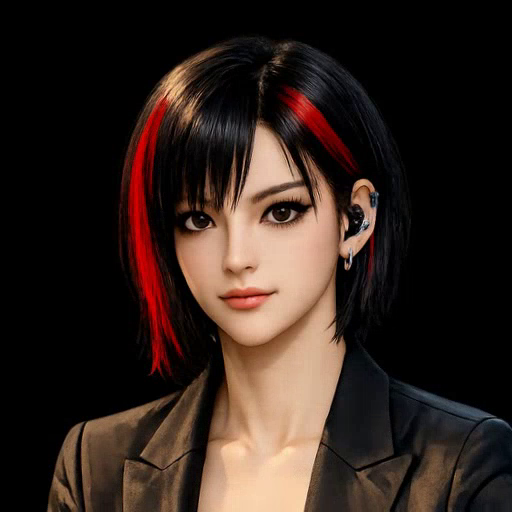
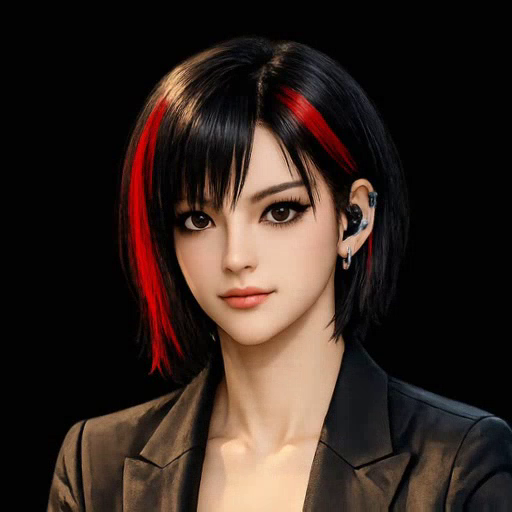
fix(oracle): mute video during Kokoro audio for no double output, fix static/video alignment
- canplay no longer calls tryUnmute — video plays muted as lip-sync overlay
- audio.onended unmutes video if it's still playing
- Poll: when video arrives mid-audio, starts playVid muted immediately
- Static PNG re-extracted from oracle_idle.mp4 frame 30 (512x512)
- CSS: object-position:center top on both #vid and #vid-static for pixel match

diff --git a/templates/oracle_live.html b/templates/oracle_live.html
@@ -300,7 +300,7 @@ html,body{height:100%;width:100%;background:#000;overflow:hidden;font-family:'In
 .video-wrap::before{top:6px;left:6px;border-width:1px 0 0 1px}
 .video-wrap::after{bottom:6px;right:6px;border-width:0 1px 1px 0}
 
-#vid{width:100%;height:100%;object-fit:cover;display:block}
+#vid{width:100%;height:100%;object-fit:cover;object-position:center top;display:block}
 .vid-ph{
   position:absolute;inset:0;
   display:flex;align-items:center;justify-content:center;
@@ -598,7 +598,7 @@ html,body{height:100%;width:100%;background:#000;overflow:hidden;font-family:'In
 
   <div class="video-wrap" style="position:relative;z-index:1;">
     <div class="vid-ph" id="vid-ph"><div class="vid-orb">⚡</div></div>
-    <img id="vid-static" src="/static/img/oracle_avatar_static.png" style="position:absolute;inset:0;width:100%;height:100%;object-fit:cover;opacity:1;transition:opacity 0.3s;pointer-events:none;z-index:1;" alt="Oracle">
+    <img id="vid-static" src="/static/img/oracle_avatar_static.png" style="position:absolute;top:0;left:0;width:100%;height:100%;object-fit:cover;object-position:center top;display:block;opacity:1;transition:opacity 0.3s;pointer-events:none;z-index:1;" alt="Oracle">
     <video id="vid" playsinline webkit-playsinline x-webkit-airplay="allow" preload="auto" style="position:absolute;inset:0;width:100%;height:100%;object-fit:cover;opacity:0;transition:opacity 0.3s;z-index:2;"></video>
   </div>
 
@@ -973,6 +973,8 @@ function process(text){
         return new Promise(function(resolve){
           audio.onended=function(){
             URL.revokeObjectURL(audioUrl);
+            // Audio finished — unmute video if it's playing lip sync
+            try{ if(!vid.paused){ vid.muted=false; vid.volume=1.0; } }catch(e){}
             if(pendingVideoUrl){
               playVid(pendingVideoUrl).then(resolve);
             } else {
@@ -1009,6 +1011,13 @@ function process(text){
                   if(vb){
                     clearInterval(pollVideo);
                     pendingVideoUrl=blobURL(vb);
+                    // If audio is still playing, start video immediately muted for lip sync
+                    if(!audio.paused && !audio.ended){
+                      vid.muted=true;
+                      vid.volume=0;
+                      playVid(pendingVideoUrl);
+                      // When audio ends, we already handle unmute above
+                    }
                     vid.style.opacity='1';
                   }
                 })
@@ -1081,15 +1090,15 @@ function playVid(url){
     }
     vid.addEventListener('canplay',function oncp(){
       vid.removeEventListener('canplay',oncp);
-      tryUnmute();
+      // If Kokoro audio is still playing, keep video muted — lip sync only
+      // tryUnmute() will fire when audio ends
       vid.style.opacity='1';
       document.getElementById('vid-static').style.opacity='0';
     },{once:true});
     var p=vid.play();
     if(p){
       p.then(function(){
-        // Playing — try to unmute
-        setTimeout(tryUnmute,50);
+        // Video started — only unmute if no separate audio is playing
       }).catch(function(){
         // Autoplay blocked even muted — show placeholder, let user tap to play
         setStat('Tap to play','#f4c46f',false);
